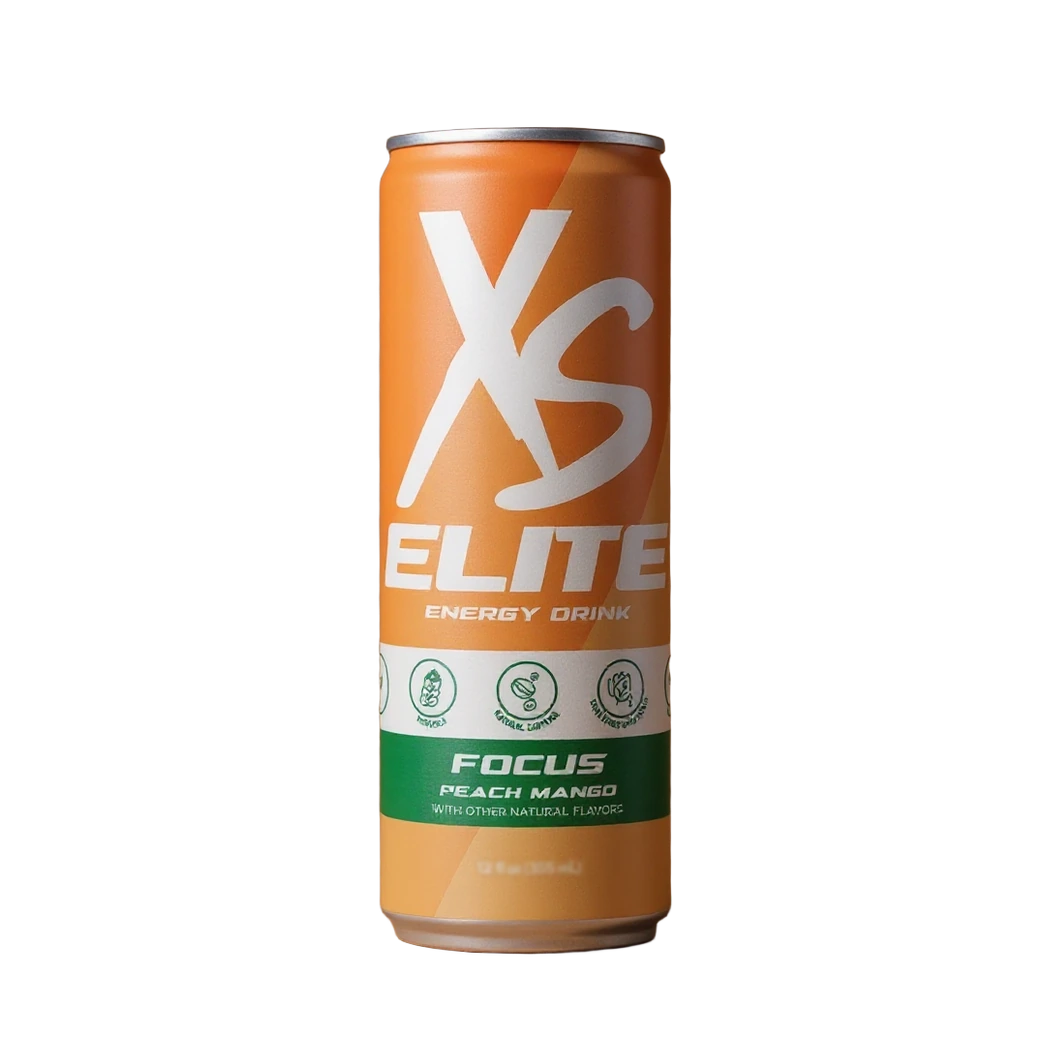
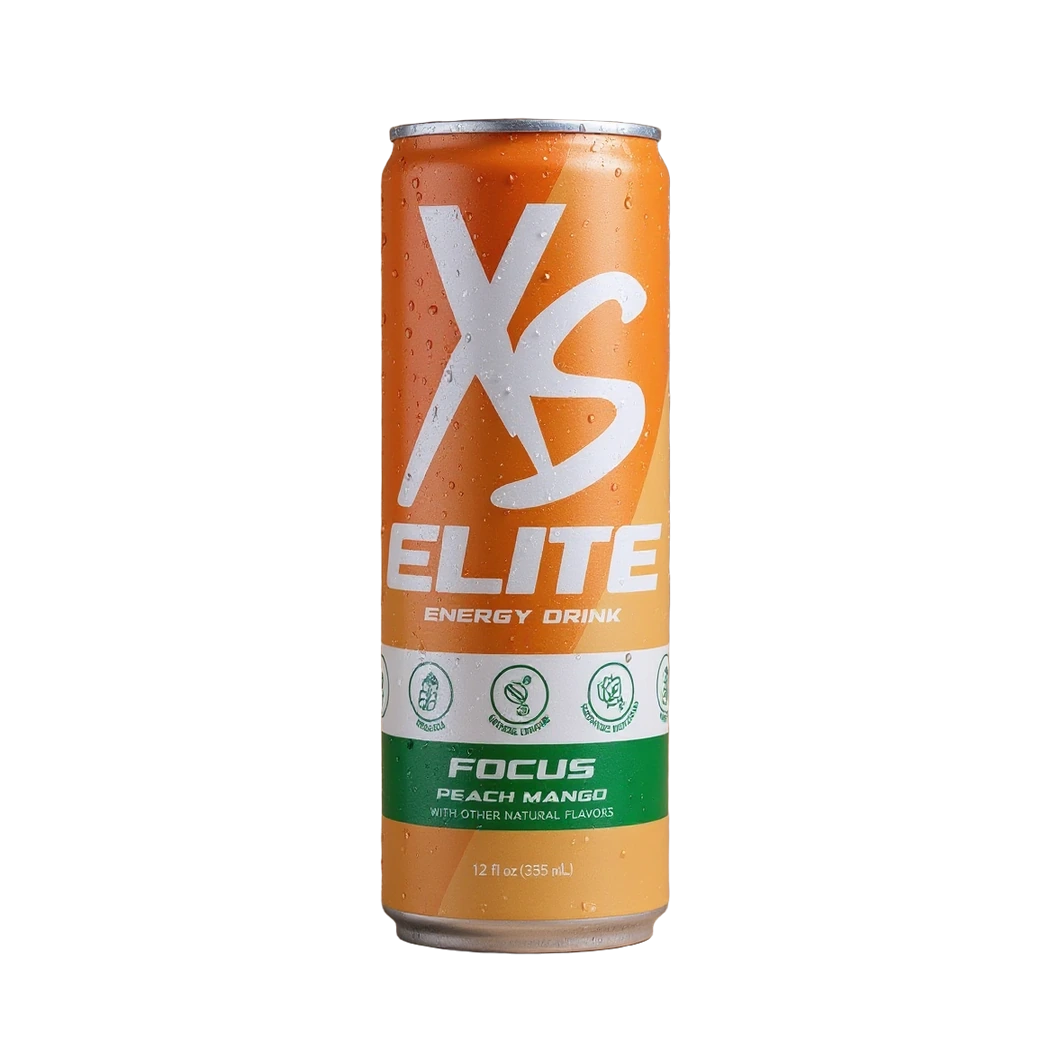
A real-looking XS Elite can in the story
Regenerated from the catalogue can with droplets and a metallic rim; the
volume line reads the true 355 mL, and the can is squeezed back to its real
proportion. Same canvas and framing, so nothing else moves.

Changed region(s): [[0.3359, 0.0916, 0.6412, 0.916]]

diff --git a/CLAUDE.md b/CLAUDE.md
@@ -112,9 +112,12 @@ stop aligning.
 Elite, Sleep Health, as `*-lit.webp`): relit with fal-ai/flux-pro/kontext, cut out with
 fal-ai/birefnet/v2, and placed by hand, so the build never touches them. Each was checked so that the
 name, logos, colours and shape match the real pack, while fine print may differ. The GI Primer shot
-is ~7% taller than the real tub (Peter accepted it). On XS Elite (the volume line) and the whey (net
-weight, servings, the caption under FREE) the model got lines wrong, so those were softened to
-illegible rather than left stating a wrong number. The sleep bottle's base rim had the lit set's teal
+is ~7% taller than the real tub (Peter accepted it). On the whey the model got lines wrong (net
+weight, servings, the caption under FREE), so those were softened to illegible rather than left
+stating a wrong number. XS Elite was regenerated for realism from the real catalogue can (droplets,
+metallic rim): its volume line reads the true "12 fl oz (355 mL)", and because kontext widened the
+can on every try, the cut-out was squeezed horizontally back to the real can's proportion — an even
+rescale, nothing redrawn. The sleep bottle's base rim had the lit set's teal
 bounce white-balanced out. Each file is framed like the catalogue image it replaces (same centre x,
 baseline and pack area; the whey measured on the pouch, with its scoop in front), so the story's
 `data-*` attributes and `.st-shade` carry over unchanged. Only the story uses them; the product cards,
@@ -131,7 +134,7 @@ Peter's lines inside it are his, verbatim, in PETER-COPY markers.
 
 Its pace lives in two places: the `HOLD` table and `T` in the story block of `_script.html`, and the
 run height (900lvh) in `style.css`. The stage renders from an eased copy of the scroll position with
-a speed cap and a backlog clamp, so a fast flick still plays each swirl; it is still a pure function
+a speed cap and a backlog clamp, so a fast flick still plays each fall; it is still a pure function
 of scroll, so scrolling back plays it backwards. Transforms and opacity only (a full scrub costs 0
 layouts); keep it that way. Reduced motion and no JavaScript get the same beats as a plain vertical
 sequence. It was tuned over four Fable review rounds; the rounds are tagged `story-round-0` to
